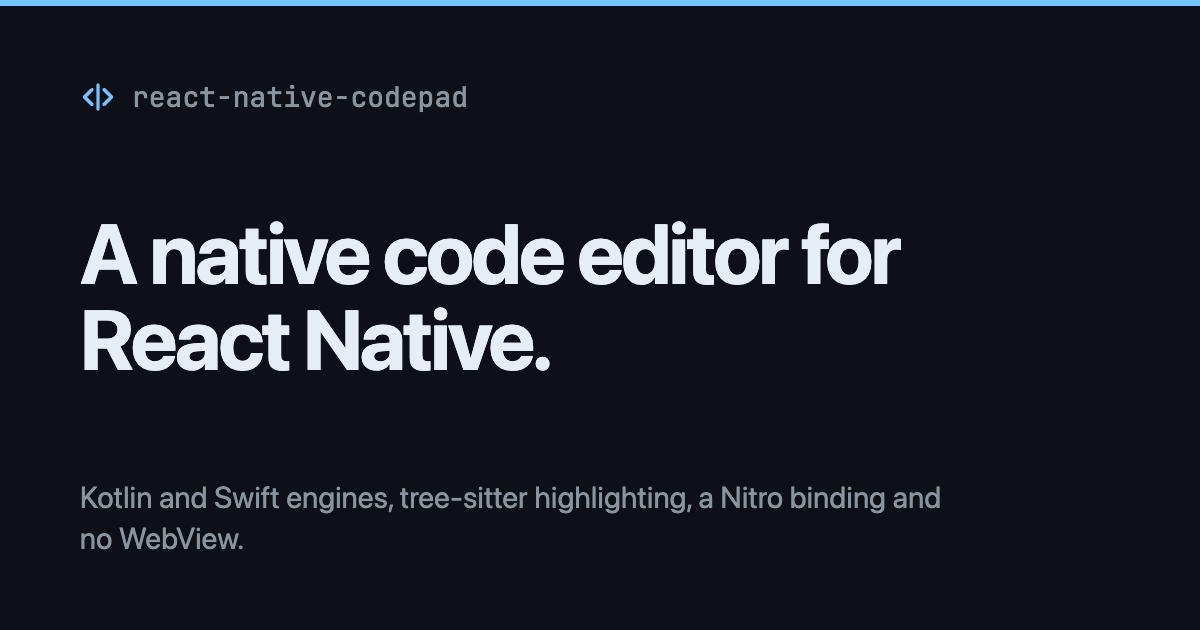
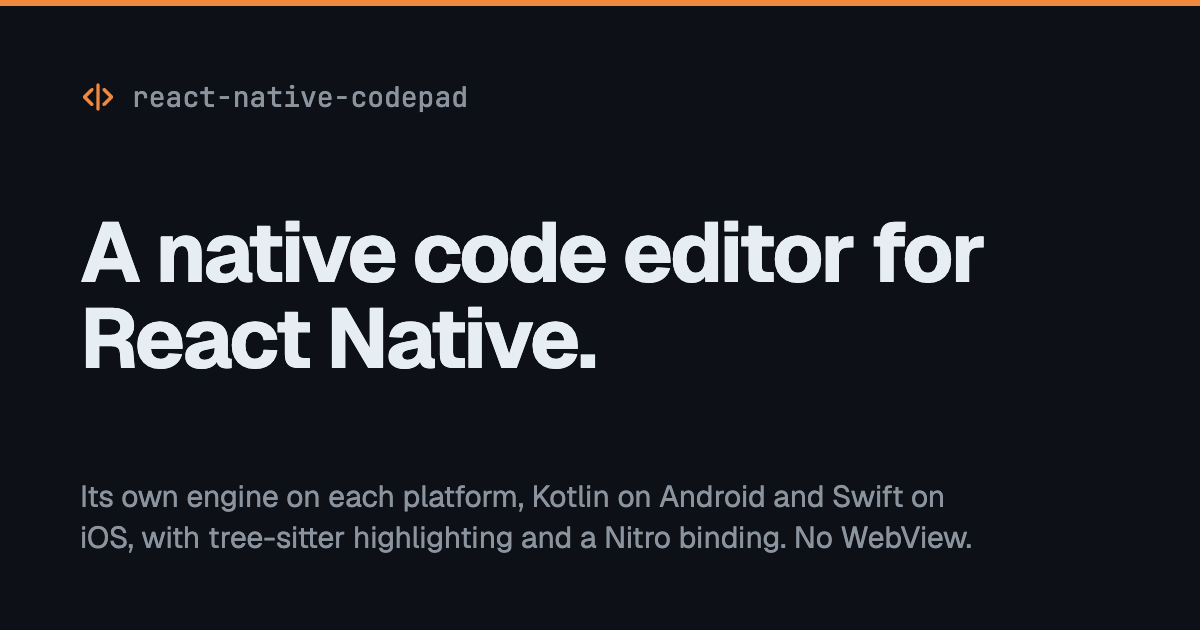
fix(site): phone tables scroll, 44 px targets, one mark in the accent
The custom table rule overrode the scrollable tables Docusaurus ships, so
the props and language pages rendered 553 and 657 px wide on a 360 px phone.
Below the sidebar breakpoint a table now scrolls inside its column. The
navbar toggle and the language chips reach 44 px on touch. An identifier
used as a heading renders as mono text instead of an inline code pill. The
logo, the favicon and the social card share one mark in the site accent,
with a dark variant for the dark navbar, Geist on the card and the hero
sentence as its tagline.

diff --git a/website/static/og/og.html b/website/static/og/og.html
@@ -5,6 +5,11 @@
     <title>react-native-codepad social card</title>
     <style>
       @font-face {
+        font-family: 'Geist';
+        src: url('../fonts/GeistVariable.woff2') format('woff2');
+        font-weight: 100 900;
+      }
+      @font-face {
         font-family: 'JetBrains Mono';
         src: url('../fonts/JetBrainsMono-Medium.woff2') format('woff2');
         font-weight: 500;
@@ -16,7 +21,7 @@
         height: 630px;
         background: #0d1117;
         color: #e6edf3;
-        font-family: -apple-system, BlinkMacSystemFont, 'Segoe UI', Roboto, Helvetica, Arial, sans-serif;
+        font-family: 'Geist', -apple-system, BlinkMacSystemFont, 'Segoe UI', Roboto, Helvetica, Arial, sans-serif;
       }
       .card {
         box-sizing: border-box;
@@ -26,7 +31,7 @@
         display: flex;
         flex-direction: column;
         justify-content: space-between;
-        border-top: 6px solid #79c0ff;
+        border-top: 6px solid #f0883e;
       }
       .name {
         display: flex;
@@ -61,11 +66,11 @@
   <body>
     <div class="card">
       <div class="name">
-        <svg viewBox="0 0 24 24" fill="none" stroke="#79c0ff" stroke-width="2.2" stroke-linecap="round" stroke-linejoin="round"><title>react-native-codepad</title><path d="M8 7l-5 5 5 5"/><path d="M16 7l5 5-5 5"/><path d="M12 4v16"/></svg>
+        <svg viewBox="0 0 24 24" fill="none" stroke="#f0883e" stroke-width="2.2" stroke-linecap="round" stroke-linejoin="round"><title>react-native-codepad</title><path d="M8 7l-5 5 5 5"/><path d="M16 7l5 5-5 5"/><path d="M12 4v16"/></svg>
         react-native-codepad
       </div>
       <h1>A native code editor for React Native.</h1>
-      <p>Kotlin and Swift engines, tree-sitter highlighting, a Nitro binding and no WebView.</p>
+      <p>Its own engine on each platform, Kotlin on Android and Swift on iOS, with tree-sitter highlighting and a Nitro binding. No WebView.</p>
     </div>
   </body>
 </html>

diff --git a/website/src/css/custom.css b/website/src/css/custom.css
@@ -169,6 +169,15 @@ p {
   height: 22px;
 }
 
+.navbar__toggle {
+  display: inline-flex;
+  align-items: center;
+  justify-content: center;
+  min-width: 44px;
+  min-height: 44px;
+  margin-right: 0.25rem;
+}
+
 .navbar__link {
   font-size: 0.9375rem;
   color: var(--cp-muted);
@@ -273,6 +282,18 @@ pre code {
   font-weight: 400;
 }
 
+/* An identifier as a heading reads as mono text, not as a pill. */
+.markdown h1 code,
+.markdown h2 code,
+.markdown h3 code,
+.markdown h4 code {
+  border: 0;
+  padding: 0;
+  background: transparent;
+  font-size: 0.92em;
+  font-weight: 600;
+}
+
 .theme-code-block {
   border: 1px solid var(--cp-border);
   border-radius: var(--cp-radius);
@@ -319,6 +340,14 @@ table {
   display: table;
   width: 100%;
   font-size: 0.9375rem;
+}
+
+/* Below the sidebar breakpoint a wide table scrolls inside the column instead of widening the page. */
+@media (max-width: 996px) {
+  table {
+    display: block;
+    overflow-x: auto;
+  }
 }
 
 table th {

diff --git a/website/docusaurus.config.ts b/website/docusaurus.config.ts
@@ -98,6 +98,7 @@ const config: Config = {
       logo: {
         alt: 'React Native CodePad',
         src: 'img/logo.svg',
+        srcDark: 'img/logo-dark.svg',
       },
       items: [
         { type: 'docSidebar', sidebarId: 'docs', label: 'Docs', position: 'left' },

diff --git a/website/src/pages/index.module.css b/website/src/pages/index.module.css
@@ -318,6 +318,14 @@
   text-decoration: none;
 }
 
+@media (pointer: coarse) {
+  .chips li > * {
+    display: inline-flex;
+    align-items: center;
+    min-height: 44px;
+  }
+}
+
 /* Final call */
 
 .cta {
